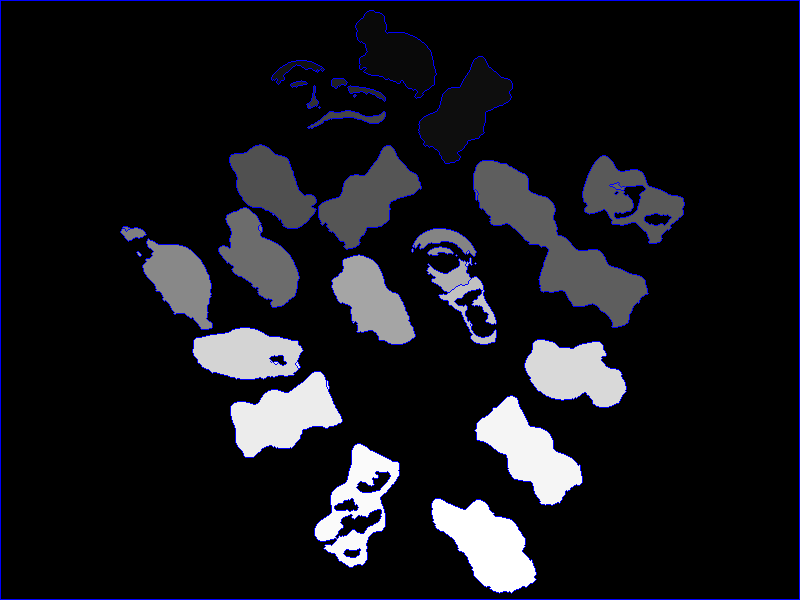
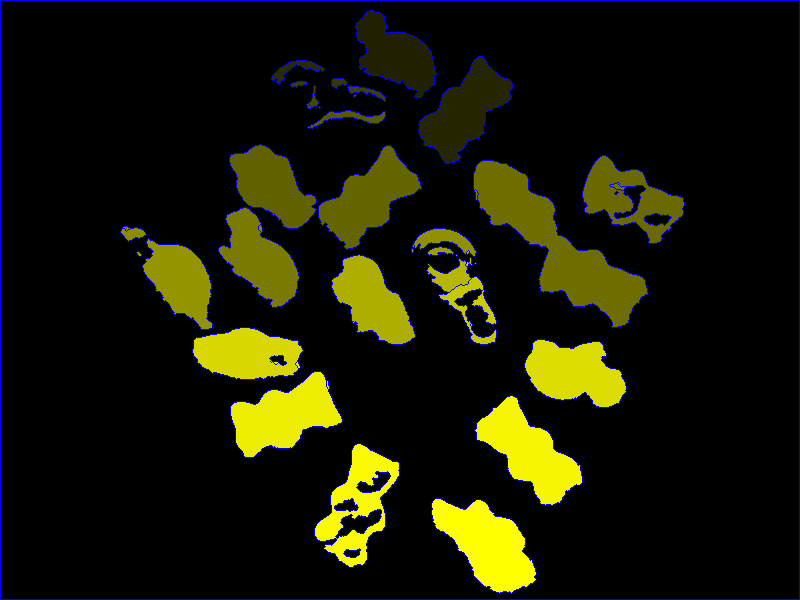
done

diff --git a/p6/main.py b/p6/main.py
@@ -101,9 +101,9 @@ def watershed(img):
     img[markers == -1] = [255, 0, 0]
 
     # color all objects
-    steps = 255 / markers.max()
+    steps = 230 / markers.max()
     for i in range(2, markers.max() + 1):
-        img[markers == i] = [i * steps, i * steps, i * steps]
+        img[markers == i] = [0, 25 + i * steps, 25 + i * steps]
     return img
 
 
